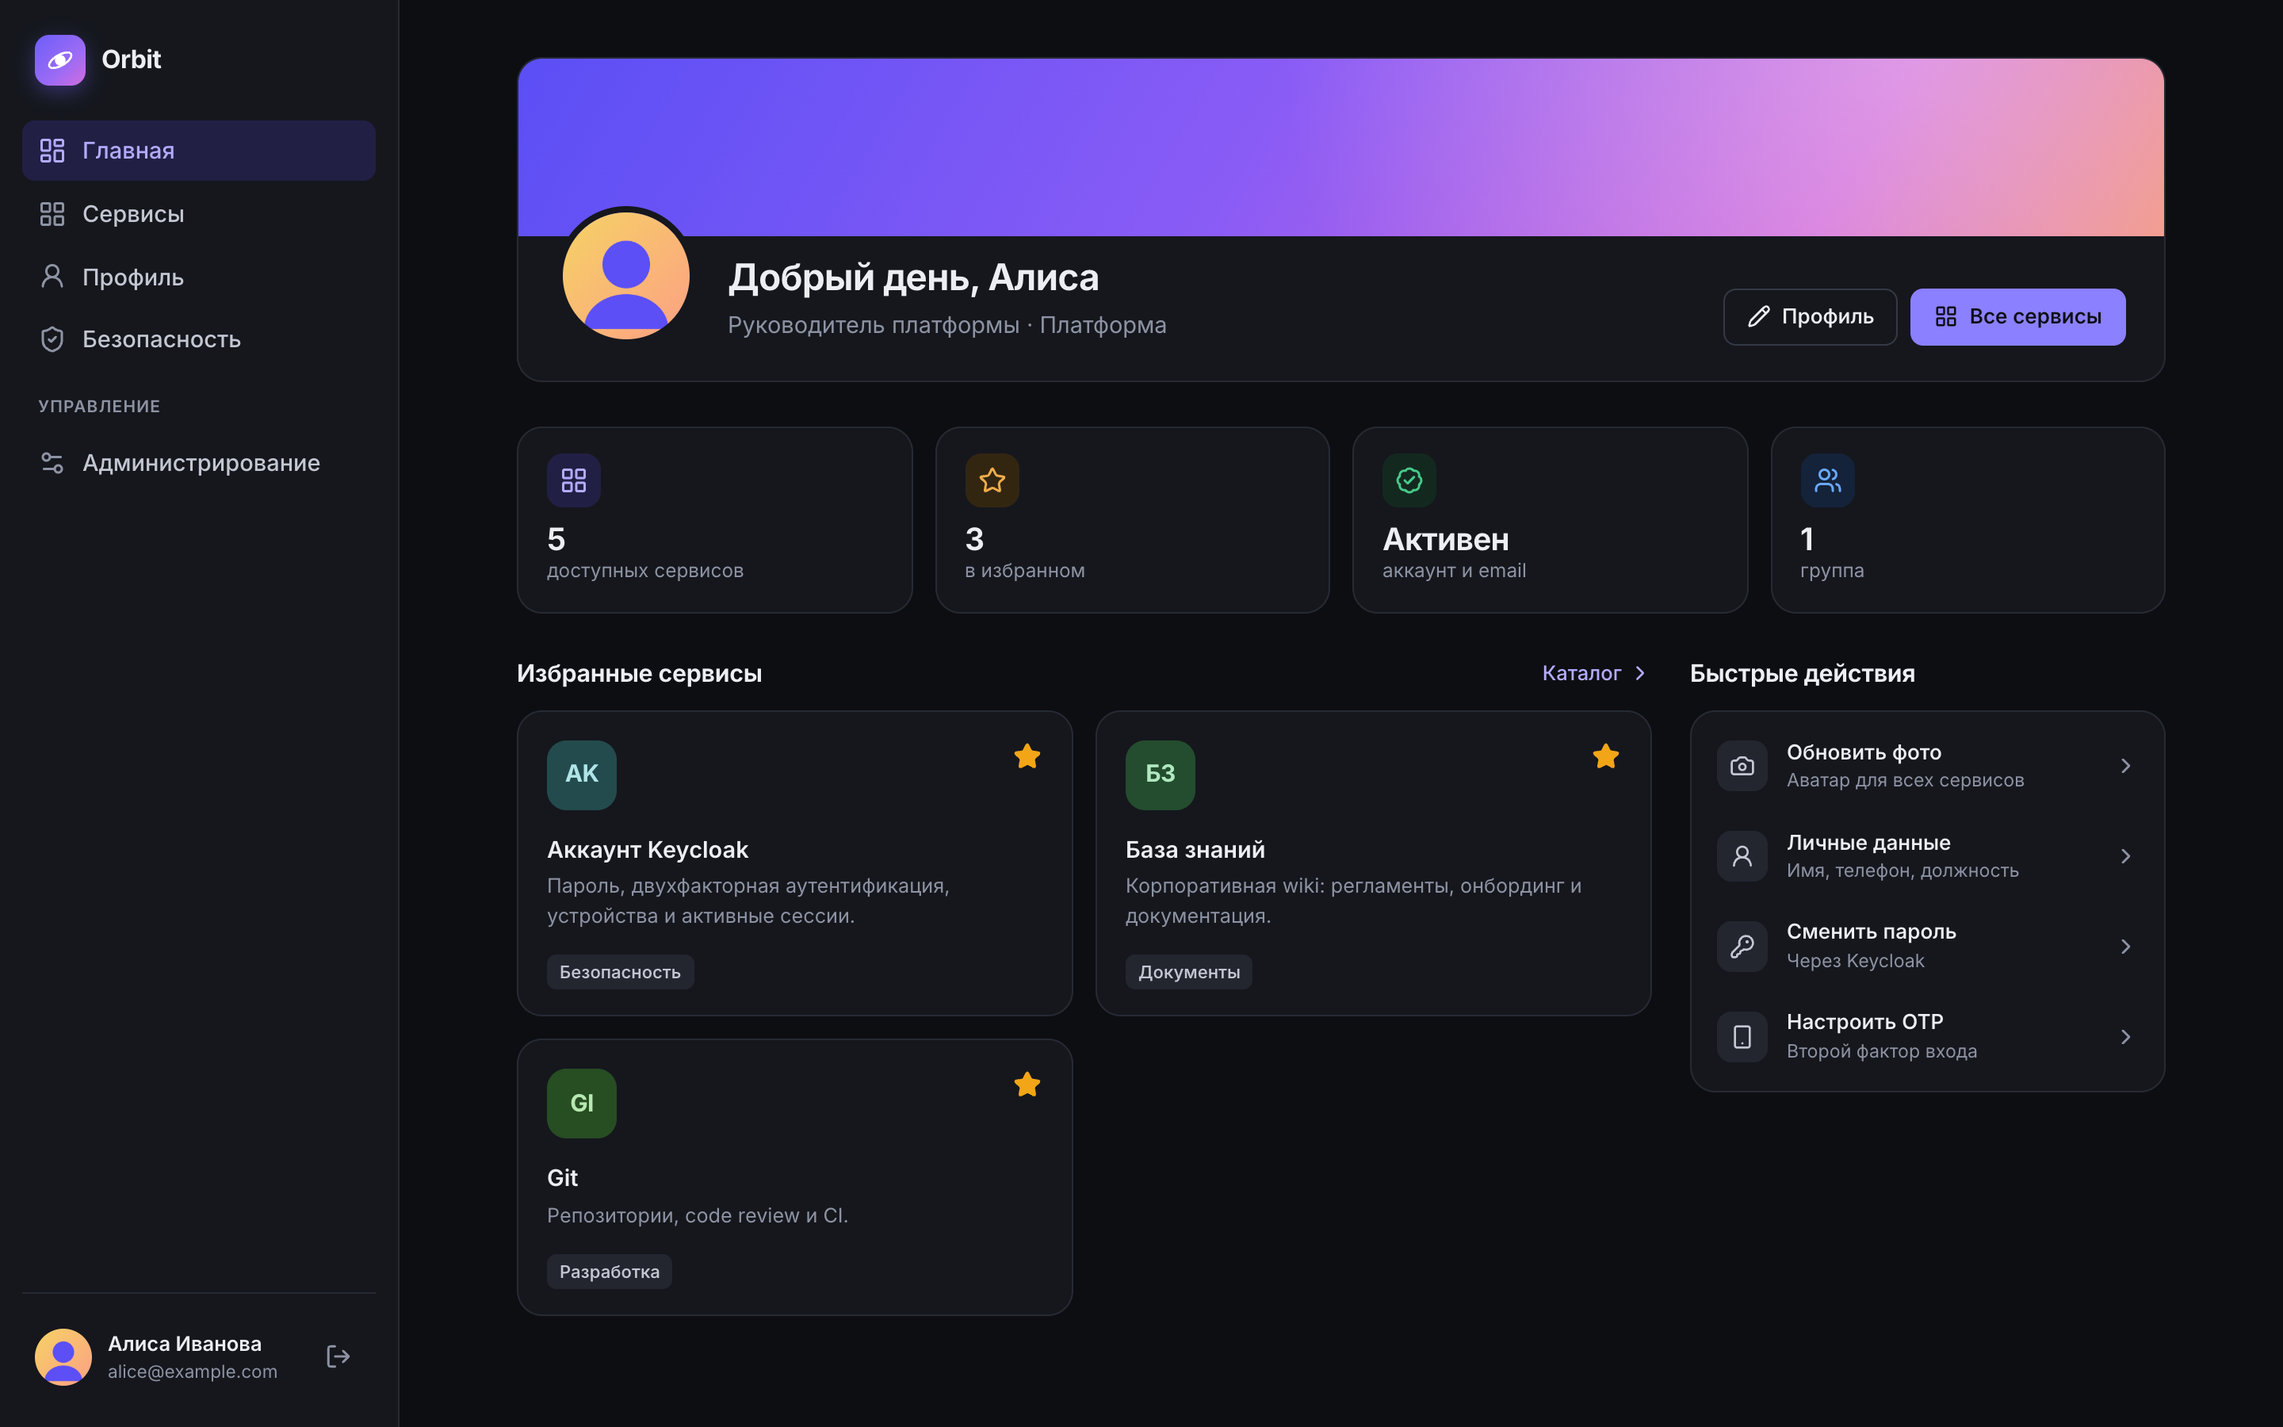
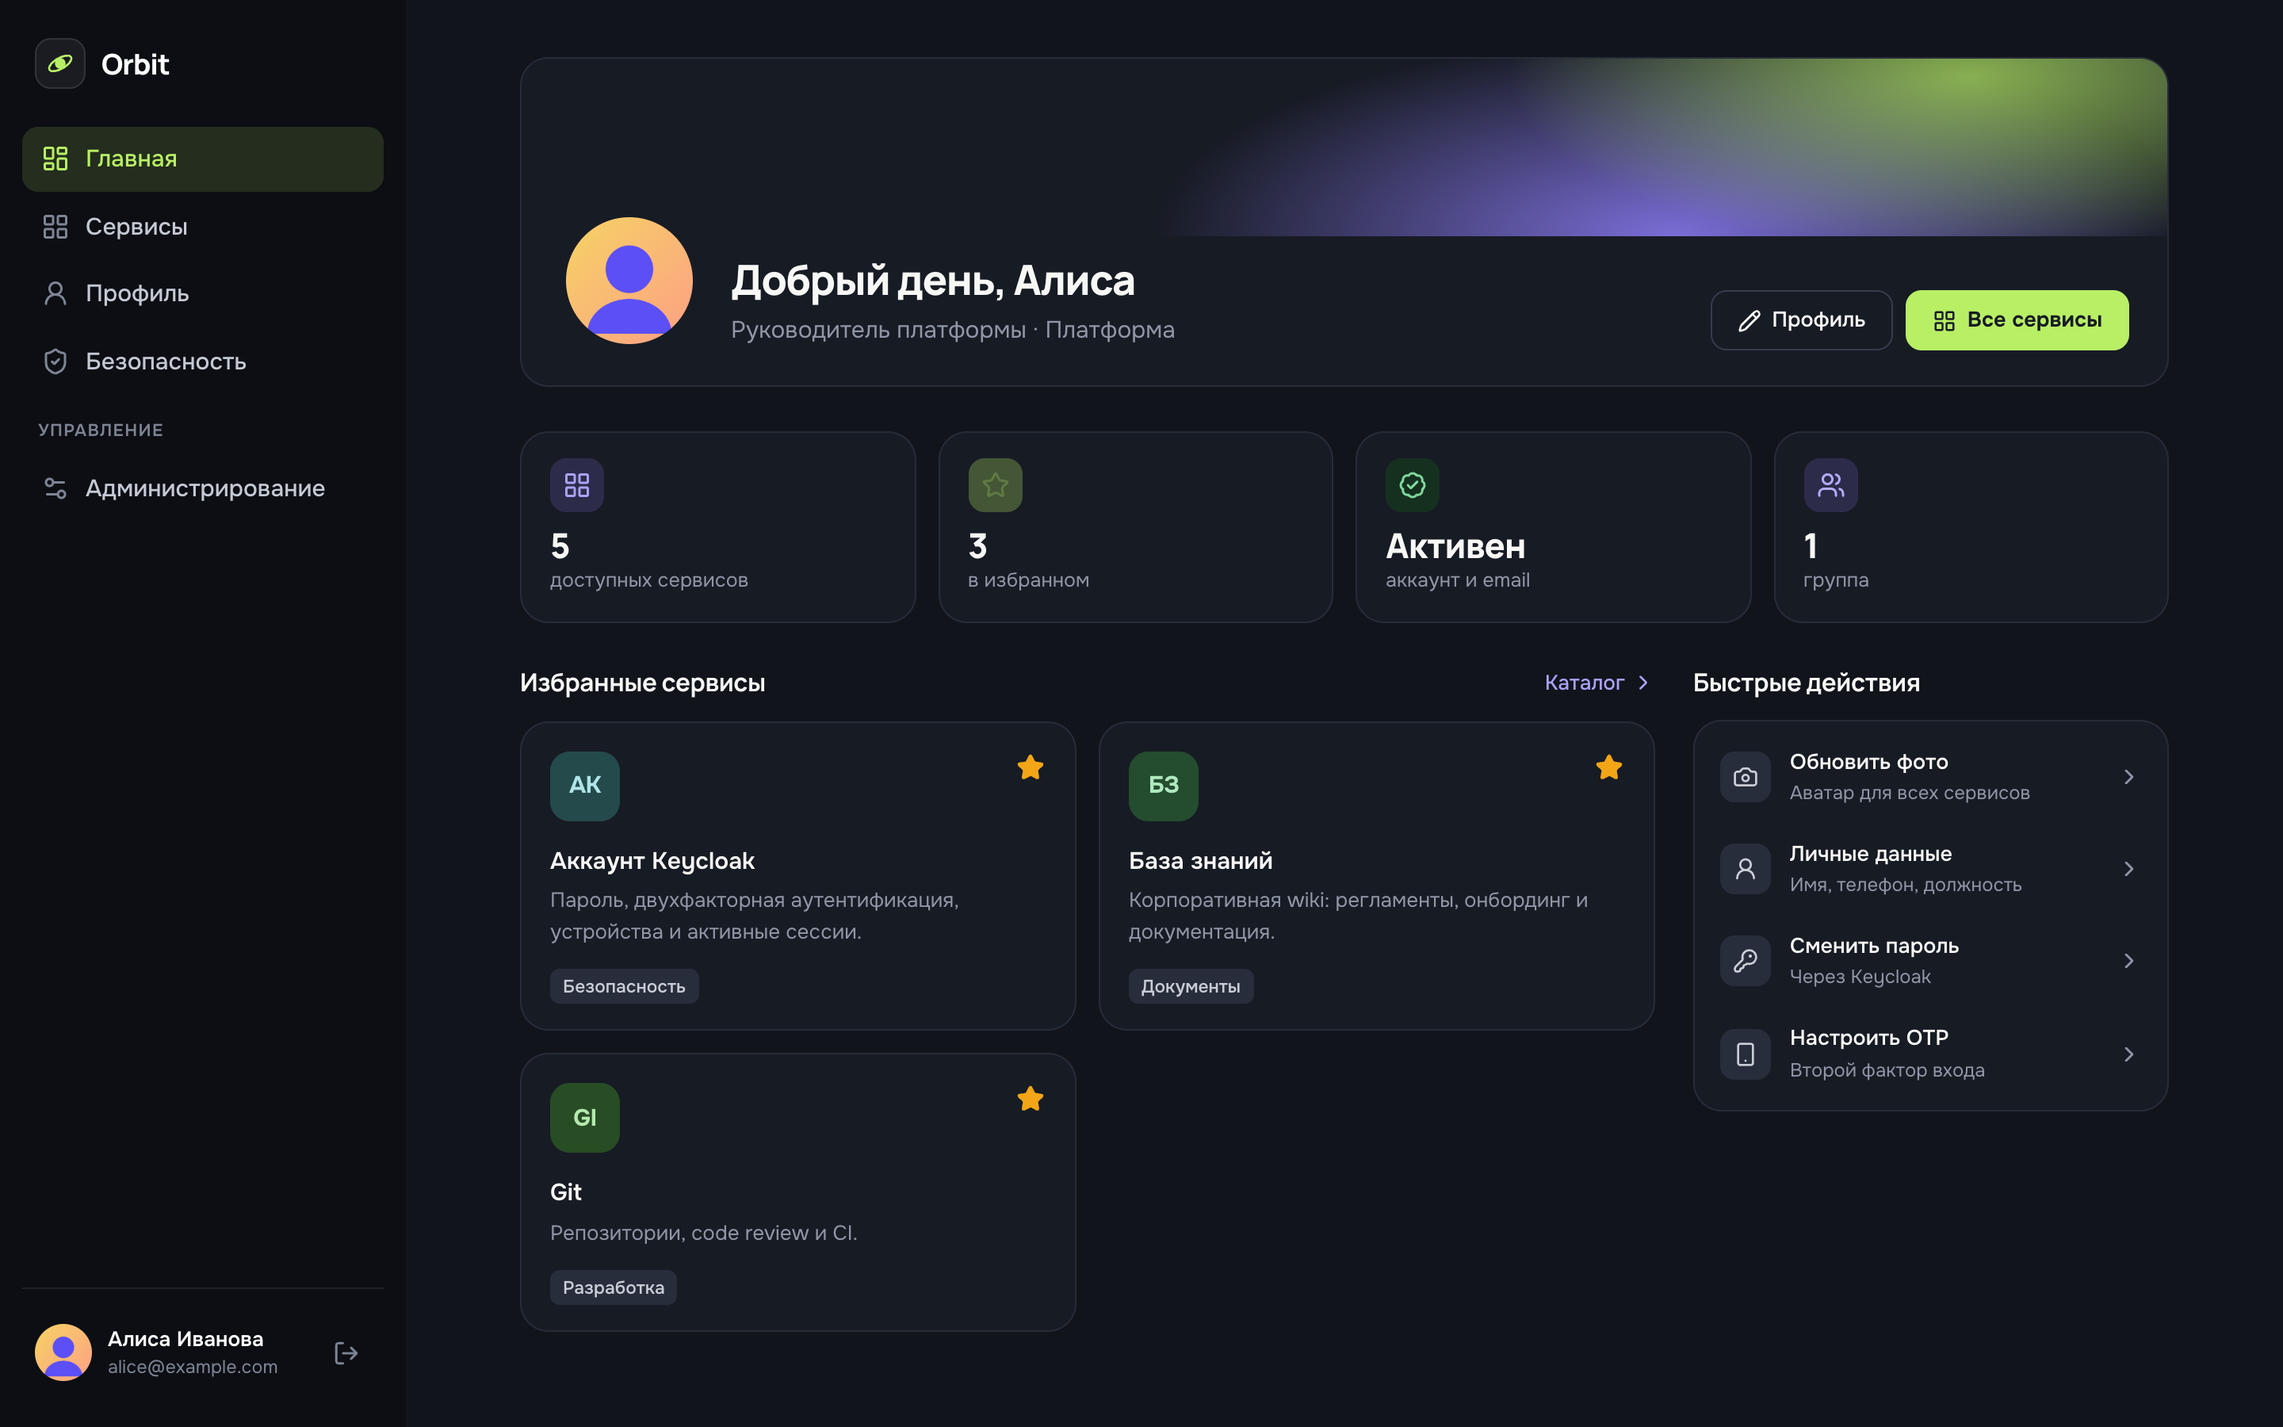
Document branding and Kubernetes deployment, refresh screenshots

diff --git a/README.md b/README.md
@@ -14,7 +14,8 @@
 |---|---|
 | ![Вход](docs/screenshots/landing.jpg) **Вход** — через Keycloak, без пароля Orbit | ![Каталог сервисов](docs/screenshots/services.png) **Сервисы** — поиск, категории, избранное, переход по SSO |
 | ![Профиль](docs/screenshots/profile.png) **Профиль** — фото с кадрированием, редактируемые поля, группы и роли | ![Безопасность](docs/screenshots/security.png) **Безопасность** — пароль, OTP и WebAuthn через Keycloak |
-| ![Редактирование сервиса](docs/screenshots/admin-edit.png) **Администрирование** — каталог и правила доступа | ![Журнал аудита](docs/screenshots/admin-audit.png) **Журнал аудита** — входы, изменения, переходы |
+| ![Редактирование сервиса](docs/screenshots/admin-edit.png) **Администрирование** — каталог и правила доступа | ![Оформление](docs/screenshots/admin-branding.png) **Оформление** — название, цвета, фавикон, логотип, тексты входа |
+| ![Журнал аудита](docs/screenshots/admin-audit.png) **Журнал аудита** — входы, изменения, переходы | |
 
 <p>
   <img src="docs/screenshots/dashboard-dark.png" alt="Тёмная тема" width="72%">
@@ -22,6 +23,21 @@
 </p>
 
 Тёмная тема включается по системной настройке; интерфейс адаптирован под мобильные экраны.
+
+### Оформление
+
+По умолчанию — фирменный стиль **velessoft**:
+
+| Цвет | | Где используется |
+|---|---|---|
+| `#171B24` | ink | боковое меню, обложки, тёмная тема |
+| `#F7F8F5` | paper | фон страниц |
+| `#B8EF65` | lime | главные кнопки, активный пункт меню |
+| `#8B7CF6` | violet | ссылки, бейджи, фокус, акценты |
+
+Шрифты — **Manrope** (заголовки, 800) и **Onest** (текст), оба с кириллицей и подключены из npm-пакетов `@fontsource-variable/*`, то есть отдаются самим приложением без внешних CDN.
+
+Администратор меняет оформление в **Администрирование → Оформление** без пересборки: название портала (меню, заголовок вкладки, страница входа), основной и акцентный цвета (цвет текста на кнопках подбирается по контрасту автоматически, при контрасте ниже 4.5:1 показывается предупреждение), фавикон, логотип, заголовок и подзаголовок страницы входа, ссылка или email поддержки. Изменения видны сразу в живом предпросмотре и применяются для всех пользователей после сохранения. Фавикон и логотип принимаются в PNG/JPEG/WebP и **перекодируются в PNG** (SVG и ICO не принимаются, чтобы с домена Orbit не отдавался активный контент).
 
 ## Архитектура
 
@@ -79,6 +95,67 @@ make web     # Vite на :5173, проксирует /api, /auth и /go на :80
 
 Всё в контейнерах, одним образом (SPA отдаёт Go): `docker compose --profile app up -d --build`, затем http://localhost:8080.
 
+## Kubernetes и Helm
+
+Helm-чарт лежит в [deploy/helm/orbit](deploy/helm/orbit). Keycloak и PostgreSQL чарт не разворачивает — Orbit подключается к уже существующим.
+
+Образ публикуется workflow [release.yml](.github/workflows/release.yml) в `ghcr.io/villetacore/orbit` (multi-arch, `linux/amd64` и `linux/arm64`): ветка `main` → тег `main` и `sha-…`, тег `vX.Y.Z` → `X.Y.Z` и `X.Y`, а сам чарт — OCI-артефактом в `oci://ghcr.io/villetacore/charts/orbit`.
+
+1. Секреты — лучше отдельным Secret (External Secrets, Sealed Secrets, Vault) с ключами `databaseUrl`, `sessionSecret` (≥ 32 символов), `oidcClientSecret`, `keycloakAdminClientSecret`, а для S3 ещё `s3AccessKey`, `s3SecretKey`:
+
+```bash
+kubectl -n orbit create secret generic orbit-secrets --from-literal=databaseUrl='postgres://orbit:…@postgres:5432/orbit' --from-literal=sessionSecret="$(openssl rand -base64 48)" --from-literal=oidcClientSecret='…' --from-literal=keycloakAdminClientSecret='…' --from-literal=s3AccessKey='…' --from-literal=s3SecretKey='…'
+```
+
+2. Свои значения, например `values.prod.yaml`:
+
+```yaml
+config:
+  publicUrl: https://orbit.example.com
+  keycloak:
+    url: https://sso.example.com
+    realm: orbit
+storage:
+  driver: s3
+  s3:
+    endpoint: s3.example.com
+    bucket: orbit-avatars
+ingress:
+  enabled: true
+  className: nginx
+  annotations:
+    cert-manager.io/cluster-issuer: letsencrypt
+  hosts:
+    - host: orbit.example.com
+      paths: [{ path: /, pathType: Prefix }]
+  tls:
+    - secretName: orbit-tls
+      hosts: [orbit.example.com]
+secrets:
+  existingSecret: orbit-secrets
+```
+
+3. Установка и проверка:
+
+```bash
+helm upgrade --install orbit deploy/helm/orbit -n orbit --create-namespace -f values.prod.yaml
+```
+
+```bash
+helm test orbit -n orbit
+```
+
+Что заложено в чарт:
+
+- 2 реплики, `RollingUpdate` без простоя, PodDisruptionBudget, разнесение подов по нодам, опциональный HPA.
+- Пробы: `startupProbe` и `livenessProbe` на `/healthz`, `readinessProbe` на `/readyz` (проверяет PostgreSQL — под без базы выводится из балансировки).
+- Безопасность пода: non-root (UID 65532, distroless), read-only root filesystem, `drop: [ALL]`, `seccompProfile: RuntimeDefault`, без токена service account.
+- Под перезапускается при изменении ConfigMap или Secret (checksum-аннотации).
+- Миграции БД применяются при старте под advisory lock — безопасно при нескольких репликах.
+- Чарт отказывается рендериться при заведомо нерабочих настройках: нет секретов, короткий `sessionSecret`, `publicUrl` с путём, `storage.driver=fs` с несколькими репликами без `ReadWriteMany`.
+
+Ограничения: rate limiting считается в памяти каждого пода (лимиты фактически умножаются на число реплик); `config.trustProxy: true` держите только за ingress, который перезаписывает `X-Forwarded-For`. Если Keycloak в том же кластере, укажите `config.keycloak.internalUrl` (например, `http://keycloak.keycloak.svc:8080`) — бэкенд будет ходить в него напрямую, а issuer останется публичным.
+
 ## Конфигурация
 
 Все параметры — переменные окружения (полный список в [backend/.env.example](backend/.env.example) и [config.go](backend/internal/config/config.go)).
@@ -121,6 +198,8 @@ make web     # Vite на :5173, проксирует /api, /auth и /go на :80
 | `POST /auth/logout` | Завершить сессию; ответ содержит URL выхода из Keycloak |
 | `GET /go/{slug}` | Переход в сервис с проверкой доступа и аудитом |
 | `GET /api/config` | Публичные настройки (ссылки на Account Console) |
+| `GET /api/branding`, `GET /api/branding/{favicon\|logo}` | Оформление портала и его файлы (публично) |
+| `GET`, `PUT /api/admin/branding`; `PUT`, `DELETE /api/admin/branding/{favicon\|logo}` | Изменение оформления (`orbit-admin`) |
 | `GET /api/me` | Текущий пользователь и CSRF-токен |
 | `GET`, `PATCH /api/profile` | Профиль из Keycloak / изменение разрешённых полей |
 | `PUT`, `DELETE /api/profile/avatar` | Загрузка (`multipart/form-data`, поле `file`) / удаление аватара |
@@ -129,6 +208,7 @@ make web     # Vite на :5173, проксирует /api, /auth и /go на :80
 | `PUT /api/services/{id}/favorite` | `{"favorite": true}` |
 | `GET`, `POST /api/admin/services`, `PUT`, `DELETE /api/admin/services/{id}` | Управление каталогом (`orbit-admin`) |
 | `GET /api/admin/audit?limit=&before=` | Журнал аудита (`orbit-admin`) |
+| `GET /healthz`, `GET /readyz` | Liveness и readiness (с проверкой PostgreSQL) |
 
 Запросы, меняющие состояние, требуют заголовок `X-CSRF-Token` (из `/api/me`) и, если браузер передал `Origin`, совпадение с `ORBIT_PUBLIC_URL`. CORS не включается: SPA и API работают на одном origin.
 
@@ -164,9 +244,11 @@ backend/
 frontend/src/
   pages/                Главная, Сервисы, Профиль, Безопасность, Администрирование
   components/           Layout, Avatar, AvatarEditor (кадрирование), ServiceCard
+  branding.tsx          загрузка оформления: заголовок, фавикон, CSS-переменные цветов
 deploy/keycloak/        realm для локальной разработки
+deploy/helm/orbit/      Helm-чарт для Kubernetes
 ```
 
 ## Дальше по плану
 
-Регистрация по приглашениям и доменам (этап 5), пользовательские OAuth-интеграции (этап 4), метрики и мониторинг, статус доступности сервисов, уведомления о важных изменениях аккаунта.
+Регистрация по приглашениям и доменам (этап 5), пользовательские OAuth-интеграции (этап 4), метрики Prometheus, общий rate limiting через Redis для нескольких реплик, статус доступности сервисов, уведомления о важных изменениях аккаунта.
